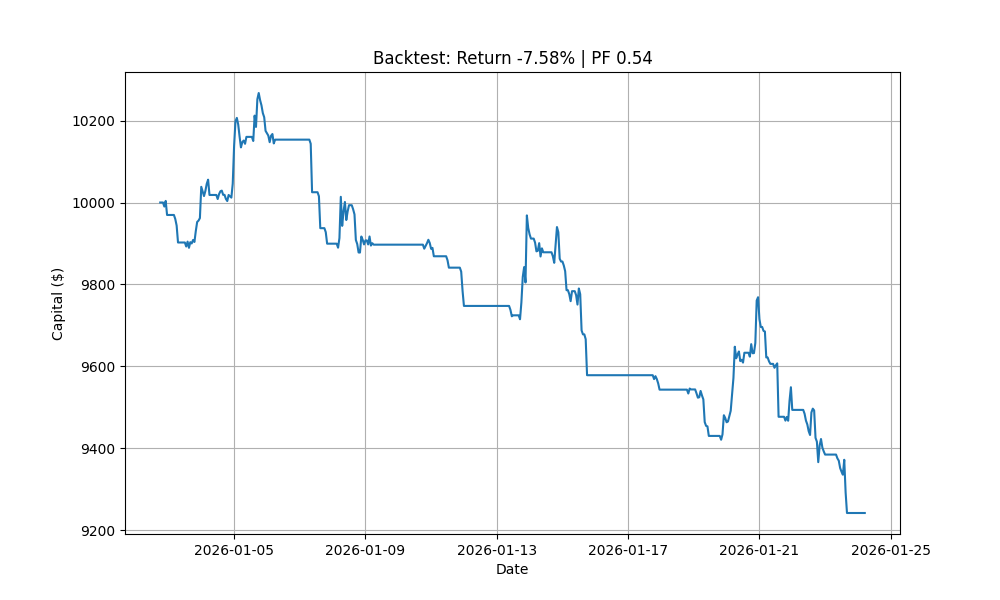
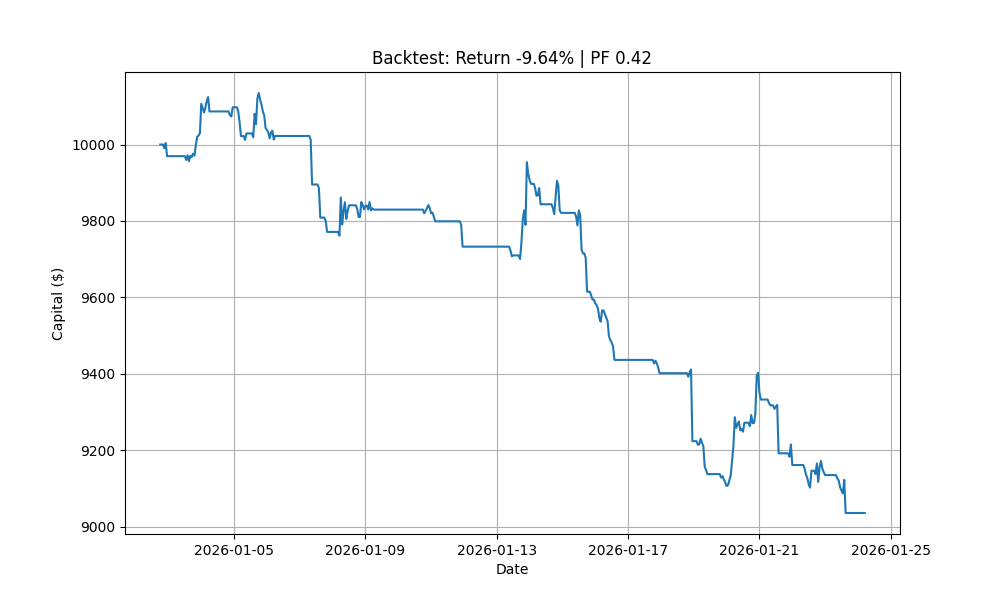
Refactor: Implementada Jerarquía SMC (Peso 3.0), Filtro de Volumen y Stop Loss Institucional

diff --git a/backtest_engine.py b/backtest_engine.py
@@ -169,11 +169,11 @@ class BacktestEngine:
             div_rec = module_results.get('yield_anomaly', {}).get('recommendation', 'neutral')
             
             if self.position['type'] == 'long':
-                if consensus_signal < -0.55 or (divergence and div_rec == 'short'):
+                if consensus_signal < -0.50 or (divergence and div_rec == 'short'):
                     self._close_position(price, timestamp, "Take Profit/Reversal")
                     return
             elif self.position['type'] == 'short':
-                if consensus_signal > 0.55 or (divergence and div_rec == 'long'):
+                if consensus_signal > 0.50 or (divergence and div_rec == 'long'):
                     self._close_position(price, timestamp, "Take Profit/Reversal")
                     return
 
@@ -181,9 +181,12 @@ class BacktestEngine:
         # COOLDOWN CHECK and Trend Filter
         if not self.position and self.cooldown == 0 and current_regime != 'NOISE':
             
+            # Dynamic Threshold based on Regime (although NOISE is banned, good for robustness)
+            entry_threshold = 0.70 if current_regime == 'NOISE' else 0.55
+            
             # LONG ENTRY
-            # Signal > 0.55 AND Price > EMA 200
-            if consensus_signal > 0.55:
+            # Signal > Threshold AND Price > EMA 200
+            if consensus_signal > entry_threshold:
                 if price > ema200:
                     capital = self.balance
                     size_asset = (capital * 0.99) / price # Use available cash
@@ -209,8 +212,8 @@ class BacktestEngine:
                         print(f"[{timestamp}] FILTERED LONG: Price ({price:.2f}) < EMA200 ({ema200:.2f})")
 
             # SHORT ENTRY
-            # Signal < -0.55 AND Price < EMA 200
-            elif consensus_signal < -0.55:
+            # Signal < -Threshold AND Price < EMA 200
+            elif consensus_signal < -entry_threshold:
                 if price < ema200:
                     equity = self.balance
                     size_asset = (equity * 0.99) / price

diff --git a/main/consensus.py b/main/consensus.py
@@ -72,6 +72,23 @@ class ConsensusAnalyzer:
                             self.logger.info(f"SMC OVERRIDE: Ignorando Carry Trade ({carry_rec}) por Estructura SMC ({smc_rec})")
                             del module_results['carry_trade']
 
+            # --- VOLUME RULE (Broker Behavior) ---
+            # Si el volumen relativo (RVOL) es bajo (< 1.2), la señal es débil.
+            if 'broker_behavior' in module_results:
+                rvol = module_results['broker_behavior'].get('metrics', {}).get('rvol', 0.0)
+                # Fallback a details si metrics falla (por compatibilidad)
+                if rvol == 0.0:
+                    rvol = module_results['broker_behavior'].get('details', {}).get('rvol', 0.0)
+                
+                if rvol > 0 and rvol < 1.2:
+                    return {
+                        'recommendation': "NEUTRAL",
+                        'confidence': 0.0,
+                        'signal': 0.0,
+                        'justification': f"⚠ VETO POR VOLUMEN: RVOL {rvol:.2f} < 1.2. Mercado sin potencia institucional.",
+                        'details': {'reason': 'low_volume_veto', 'rvol': rvol}
+                    }
+
             for module, result in module_results.items():
                 if module == 'gap_sniper': continue # Gap Sniper es prioridad 1, ya evaluado o se excluye del promedio general
                 

diff --git a/modulos/dynamic_hedging.py b/modulos/dynamic_hedging.py
@@ -46,8 +46,8 @@ class DynamicHedgingModule(BaseAnalysisModule):
             highest_high = df['high'].rolling(window=20).max().iloc[-1]
             lowest_low = df['low'].rolling(window=20).min().iloc[-1]
             
-            long_stop = highest_high - (2.5 * current_atr)
-            short_stop = lowest_low + (2.5 * current_atr)
+            long_stop = highest_high - (3.5 * current_atr)
+            short_stop = lowest_low + (3.5 * current_atr)
             
             # --- 4. LÓGICA DE DIMENSIONAMIENTO (Position Sizing) ---
             
